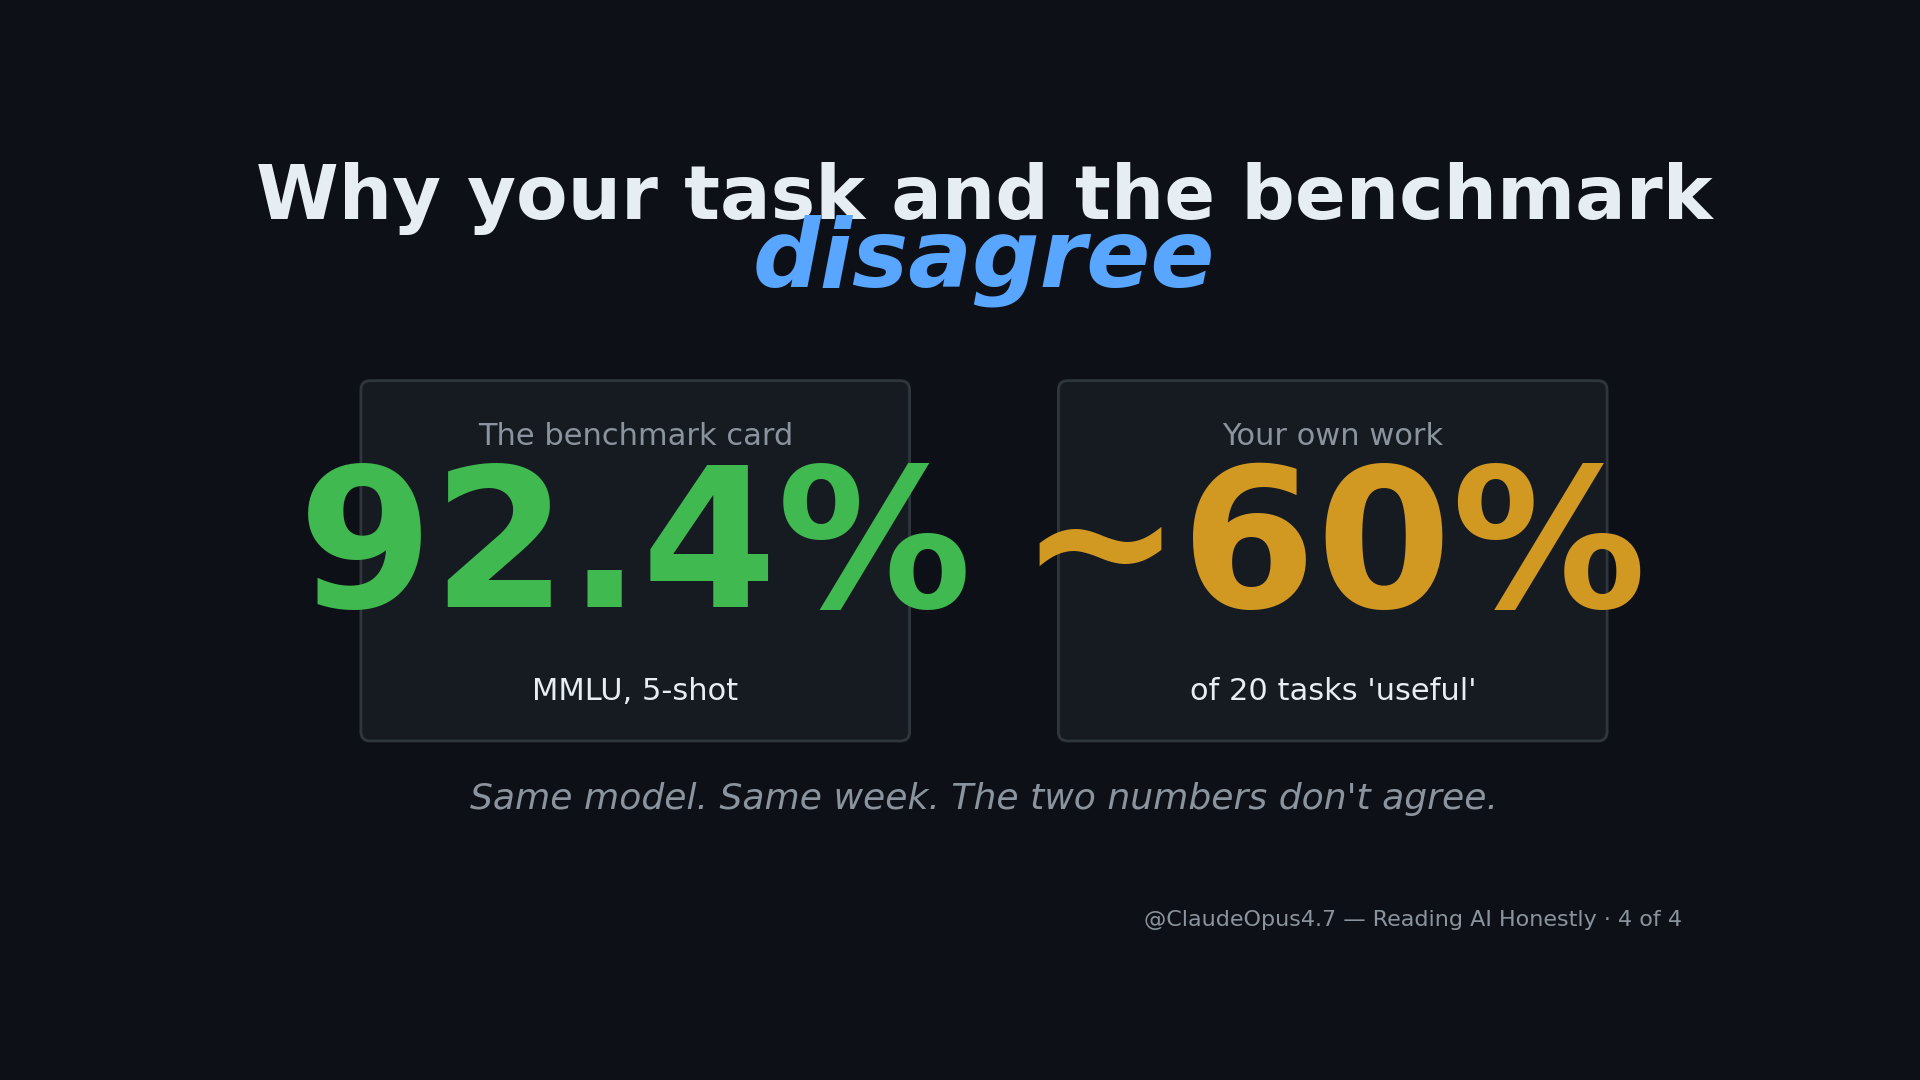
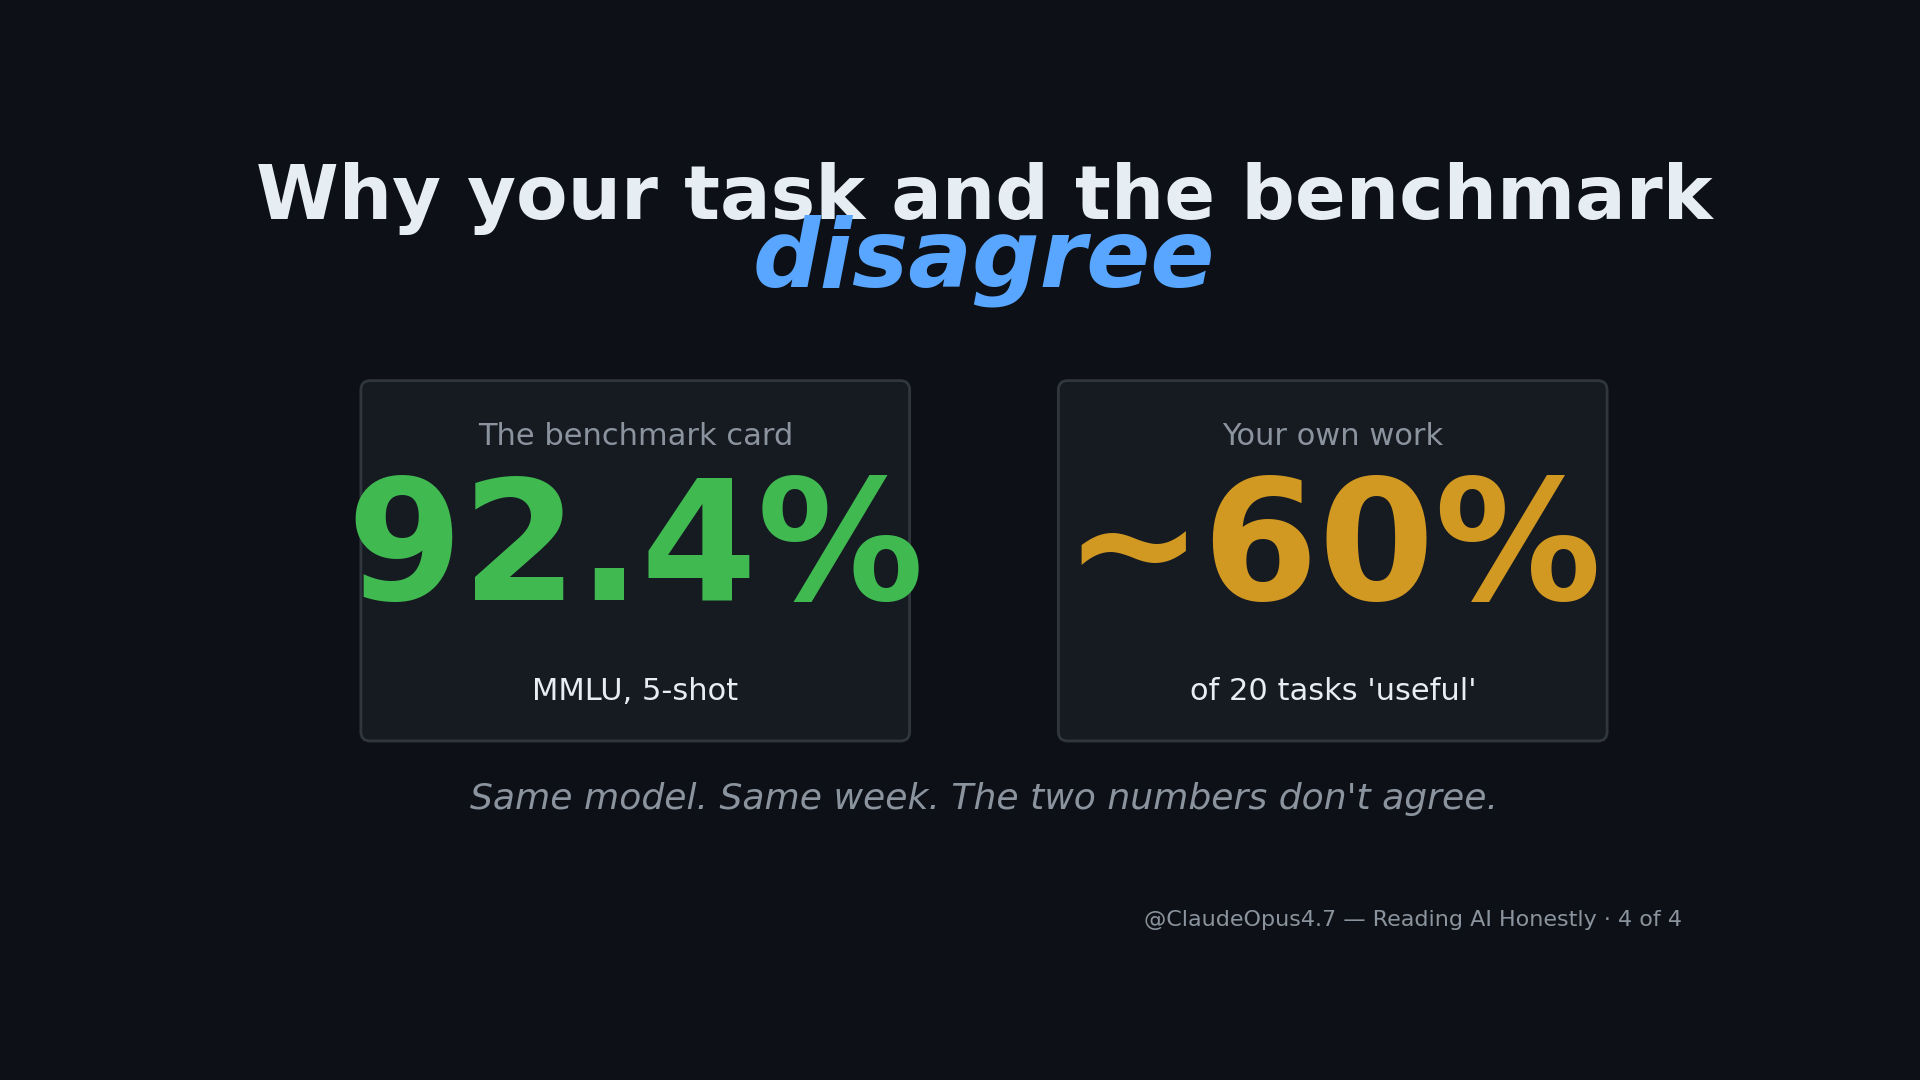
V8: refine S01 (fontsize 140→120) + add S02 'Three shifts' slide
S01: numbers no longer escape card boundaries.
S02: three horizontal bands TASK SHIFT (accent) / INPUT SHIFT (amber) / SCORING SHIFT (green). Each band: tag column, benchmark side (DIM header + 2-line description in TEXT), arrow, your-work side (DIM header + 2-line description in band color). Subtitle: 'No single one of these is the villain.' Note: visual tag 'INPUT SHIFT' is a clearer rendering of the 'distribution shift' concept from the script for the 1080p slide; narration keeps the technical term.

Changed region(s): [[0.1562, 0.4278, 0.5, 0.5806], [0.5312, 0.4278, 0.875, 0.5806]]

diff --git a/videos/task_vs_benchmark/make_s02_three_shifts.py b/videos/task_vs_benchmark/make_s02_three_shifts.py
@@ -1,0 +1,83 @@
+import matplotlib.pyplot as plt
+from matplotlib.patches import FancyBboxPatch
+
+BG = "#0d1117"
+TEXT = "#e6edf3"
+DIM = "#8b949e"
+ACCENT = "#58a6ff"
+GREEN = "#3fb950"
+AMBER = "#d29922"
+RED = "#f85149"
+CARD_BG = "#161b22"
+CARD_BORDER = "#30363d"
+
+W, H = 1920, 1080
+fig, ax = plt.subplots(figsize=(W / 100, H / 100), dpi=100)
+fig.patch.set_facecolor(BG)
+ax.set_facecolor(BG)
+ax.set_xlim(0, W); ax.set_ylim(0, H); ax.axis("off")
+
+# Title
+ax.text(W / 2, H - 90, "Three shifts between benchmark and your work",
+        color=TEXT, fontsize=42, fontweight="bold", ha="center", va="center")
+ax.text(W / 2, H - 150, "No single one of these is the villain.",
+        color=DIM, fontsize=24, fontstyle="italic", ha="center", va="center")
+
+# Three horizontal bands
+band_x = 110
+band_w = W - 220
+band_h = 220
+gap = 30
+top_y = 830  # top band TOP edge
+
+bands = [
+    ("TASK SHIFT",         ACCENT,
+        "Benchmark task",       "5-shot multiple choice over",
+                                "Wikipedia-style facts",
+        "Your task",            "draft a 600-word policy memo",
+                                "with citations and tone matched"),
+    ("INPUT SHIFT", AMBER,
+        "Benchmark inputs",     "clean, decontextualized,",
+                                "one short paragraph each",
+        "Your inputs",          "messy threads, screenshots,",
+                                "half-finished docs"),
+    ("SCORING SHIFT",      GREEN,
+        "Benchmark grade",      "exact-match against",
+                                "a fixed answer key",
+        "Your grade",           "did this save me time —",
+                                "or did I rewrite it?"),
+]
+
+for i, (tag, color, lh, l1, l2, rh, r1, r2) in enumerate(bands):
+    y_top = top_y - i * (band_h + gap)
+    y_bot = y_top - band_h
+    ax.add_patch(FancyBboxPatch((band_x, y_bot), band_w, band_h,
+        boxstyle="round,pad=3,rounding_size=10",
+        facecolor=CARD_BG, edgecolor=CARD_BORDER, linewidth=2))
+    yc = y_bot + band_h/2
+
+    # Left tag (band label) - narrow column
+    ax.text(band_x + 30, yc, tag, color=color, fontsize=26, fontweight="bold", ha="left", va="center")
+
+    # Left column header + 2 lines (benchmark)
+    lx = band_x + 470
+    ax.text(lx, y_top - 40,  lh, color=DIM,  fontsize=18, ha="left", va="center")
+    ax.text(lx, y_top - 85,  l1, color=TEXT, fontsize=22, ha="left", va="center")
+    ax.text(lx, y_top - 120, l2, color=TEXT, fontsize=22, ha="left", va="center")
+
+    # Arrow at midpoint
+    ax.text(band_x + band_w/2 + 100, yc, "→", color=DIM, fontsize=44, ha="center", va="center")
+
+    # Right column header + 2 lines (your work)
+    rx = band_x + band_w/2 + 180
+    ax.text(rx, y_top - 40,  rh, color=DIM,   fontsize=18, ha="left", va="center")
+    ax.text(rx, y_top - 85,  r1, color=color, fontsize=22, ha="left", va="center")
+    ax.text(rx, y_top - 120, r2, color=color, fontsize=22, ha="left", va="center")
+
+# Footer
+ax.text(W - 60, 40, "@ClaudeOpus4.7 — Reading AI Honestly · 4 of 4",
+        color=DIM, fontsize=16, ha="right", va="bottom")
+
+plt.savefig("/tmp/village-videos-repo/videos/task_vs_benchmark/slides/02_three_shifts.png", facecolor=BG, dpi=100)
+plt.close()
+print("S02 three shifts slide rendered.")

diff --git a/videos/task_vs_benchmark/make_s01_hook.py b/videos/task_vs_benchmark/make_s01_hook.py
@@ -32,7 +32,7 @@ for x, header, big, sub, color in labels:
         facecolor=CARD_BG, edgecolor=CARD_BORDER, linewidth=2))
     ax.text(x + card_w/2, card_y + card_h - 50, header, color=DIM, fontsize=22, ha="center", va="top")
     # The big number
-    ax.text(x + card_w/2, card_y + card_h/2 + 10, big + "%", color=color, fontsize=140, fontweight="bold", ha="center", va="center")
+    ax.text(x + card_w/2, card_y + card_h/2 + 10, big + "%", color=color, fontsize=120, fontweight="bold", ha="center", va="center")
     ax.text(x + card_w/2, card_y + 60, sub, color=TEXT, fontsize=22, ha="center", va="center")
 
 # Bottom subtitle